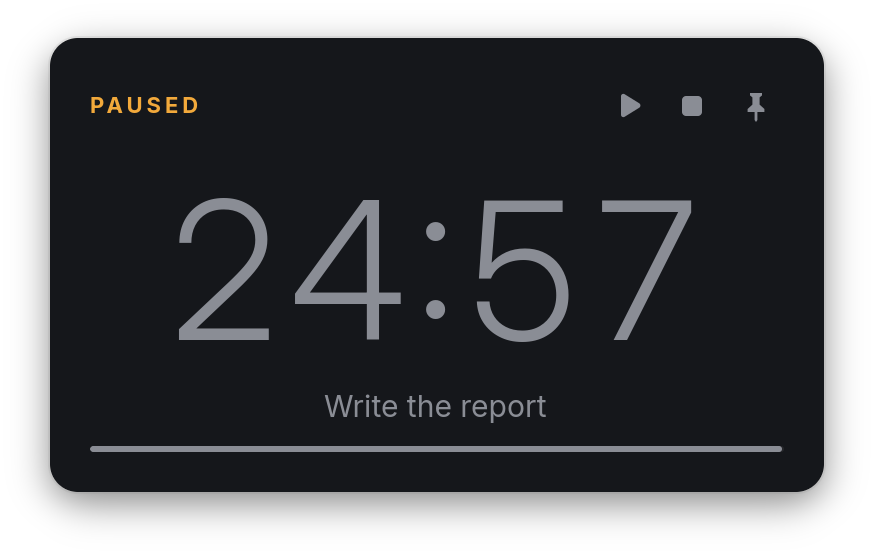
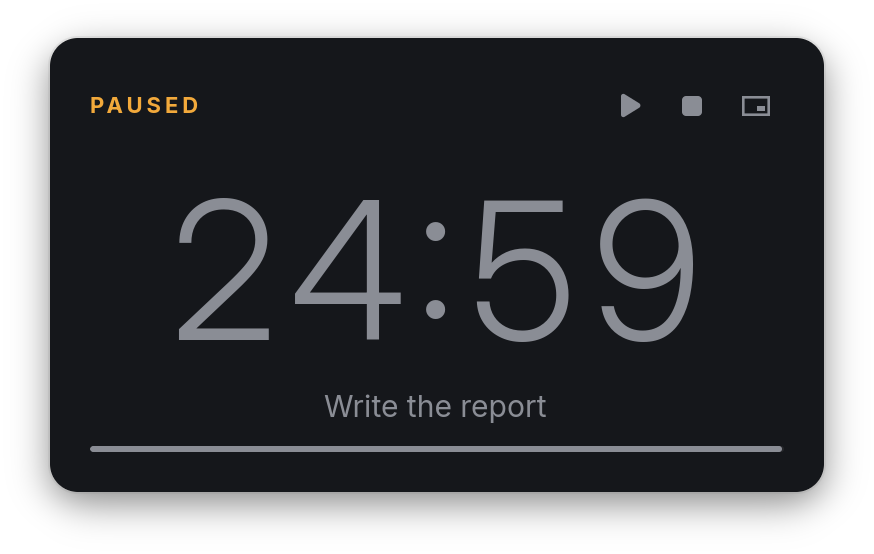
Replace Pinned with a Peek button in the window
Pinned and Peek both kept Glance above other windows, so there were two
controls for one idea. Peek now has a button next to Pause and Stop while
a timer runs, and Pinned is gone: no Pin button, no --pin, and no
"pinned" presentation mode. A stored "pinned" reads as "window".

Changed region(s): [[0.6796, 0.3375, 0.8032, 0.6137], [0.8341, 0.1534, 0.8959, 0.2148]]

diff --git a/data/style.css b/data/style.css
@@ -18,8 +18,7 @@ window.glance.csd {
   box-shadow: 0 6px 18px alpha(black, 0.45), 0 0 0 1px alpha(white, 0.07);
 }
 
-/* Overlays have no room around them for a shadow; it would show as a grey square behind the corners. */
-window.glance.pinned,
+/* Peek has no room around it for a shadow; it would show as a grey square behind the corners. */
 window.glance.peek {
   border-radius: 14px;
   box-shadow: inset 0 0 0 1px alpha(white, 0.08);
@@ -44,10 +43,6 @@ window.glance button.icon {
 window.glance button.icon:hover {
   color: @glance_fg;
   background-color: alpha(@glance_fg, 0.06);
-}
-
-window.glance button.icon.active {
-  color: @glance_accent;
 }
 
 /* One clear focus ring for every button reached with the keyboard; the start and dismiss buttons set their own. */

diff --git a/README.md b/README.md
@@ -1,6 +1,6 @@
 # Glance
 
-A small, keyboard-first countdown timer for Linux on Wayland. Type a duration, press Enter, and the time left stays big and readable. Pin it above your windows or shrink it into a corner while you work. GTK 4 and Vala, made first for [niri](https://github.com/YaLTeR/niri).
+A small, keyboard-first countdown timer for Linux on Wayland. Type a duration, press Enter, and the time left stays big and readable. Shrink it into a corner while you work. GTK 4 and Vala, made first for [niri](https://github.com/YaLTeR/niri).
 
 <p align="center">
   <img src="screenshots/setup.png" width="420" alt="Setup: hour, minute and second wheels set to 00:25:00, a round amber start button, a label field and the alarm choice">
@@ -15,7 +15,7 @@ A small, keyboard-first countdown timer for Linux on Wayland. Type a duration, p
 - Type `25.` for 25 minutes, or roll the wheels with a mouse, touchpad or arrow keys.
 - Count down a duration, or count down to a time of day.
 - When time is up the whole window turns amber and plays a short alarm.
-- **Pinned** keeps Glance above every window; **Peek** shrinks a running timer into a corner.
+- **Peek** shrinks a running timer into a corner, above every window.
 - `glance-timer 25m`, `--pause` and `--add 5m` drive the running timer from scripts and key bindings.
 - One timer, offline, no accounts, no tracking.
 
@@ -75,17 +75,15 @@ Every call talks to the one running Glance; the first call starts it.
     glance-timer --reset                      restart from the full duration
     glance-timer --add 5m
     glance-timer --show | --hide
-    glance-timer --pin | --peek | --window
+    glance-timer --peek | --window
 
 Durations need a unit, so `glance-timer 25` is an error. Errors exit 1, success prints nothing.
 
-### Pinned and Peek
+### Peek
 
-**Pinned** keeps the full window above everything in the top-right corner. It only takes keyboard focus when you click it.
+**Peek** shrinks a running timer into a small corner display that stays above every window and never takes keyboard focus. Use the Peek button while a timer runs, or `glance-timer --peek`. Click it, or run `glance-timer --window`, to get the window back.
 
-**Peek** shrinks a running timer into a small corner display. Click it, or run `glance-timer --window`, to get the window back.
-
-Both need layer shell: niri, Sway, Hyprland, KDE Plasma, COSMIC and most wlroots compositors. The mode is remembered.
+Peek needs layer shell: niri, Sway, Hyprland, KDE Plasma, COSMIC and most wlroots compositors. The mode is remembered.
 
 GNOME and X11 have no layer shell, so there Glance stays a normal window. Use the window's own Always on Top instead (Alt+Space on GNOME).
 
@@ -96,7 +94,7 @@ There is no preferences screen. Pick the alarm in the window; the rest is `gsett
     gsettings set io.github.mariocesar.Glance alarm-volume 0.5          # 0 to 1, default 0.8
     gsettings set io.github.mariocesar.Glance peek-corner bottom-left   # top-left, top-right, bottom-left, bottom-right
     gsettings set io.github.mariocesar.Glance alarm bell                # soft-chime, bell, digital, pulse, classic, none
-    gsettings set io.github.mariocesar.Glance presentation-mode window  # window, pinned, peek
+    gsettings set io.github.mariocesar.Glance presentation-mode window  # window, peek
 
 ## niri
 
